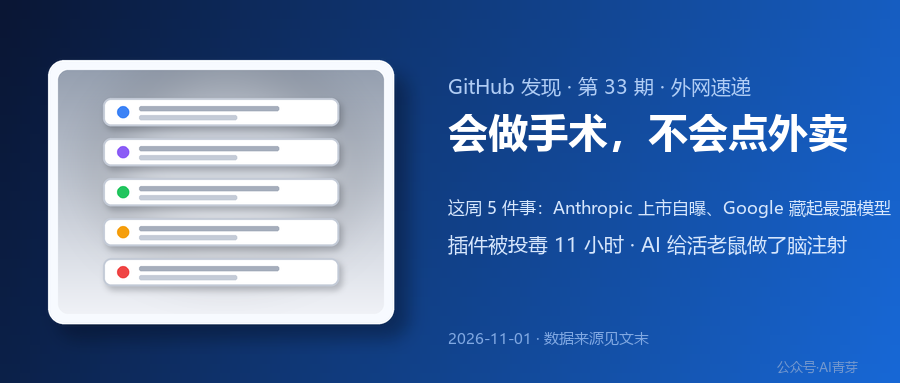
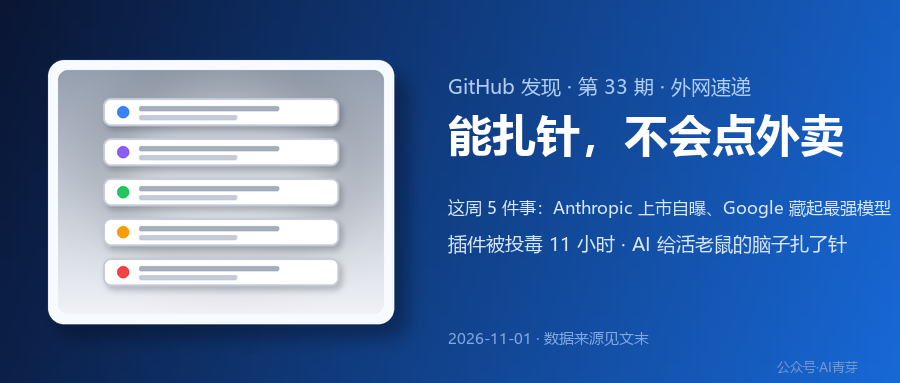
update: 第33期 预审修改+封面v2

Changed region(s): [[0.4978, 0.2872, 0.9644, 0.4308], [0.4978, 0.6031, 0.9644, 0.6893]]

diff --git a/previews/20261101-ai-digest.html b/previews/20261101-ai-digest.html
@@ -3,7 +3,7 @@
 <head>
 <meta charset="utf-8">
 <meta name="viewport" content="width=device-width, initial-scale=1">
-<title>这周 AI 圈：AI 给活老鼠做了脑手术，却还没学会帮你点外卖【附 5 件事速览】 · 预览页</title>
+<title>这周 AI 圈：AI 给活老鼠的脑子扎了一针，却还没学会帮你点外卖【附 5 件事速览】 · 预览页</title>
 <style>
   /* 仅本地预览用；复制进公众号的是 #article 的内联样式（已全部内联） */
   body { font-family: system-ui, -apple-system, "PingFang SC", "Microsoft YaHei", sans-serif; }
@@ -38,14 +38,21 @@
   <img src="https://cdn.jsdelivr.net/gh/zhaoyanan-pixe/wechat-assets@main/articles/20261101-ai-digest/cover.png" alt="" style="width:100%;border-radius:6px;display:block;margin:0 0 24px;">
 
   <p style="margin:0 0 24px;font-size:17px;color:rgba(0,0,0,0.9);line-height:31px;">周四这天，Cursor 的插件市场出了件事：挂在 Anthropic 官方账号名下的 Claude Code 插件，被人换成了带毒的版本。</p>
-  <p style="margin:0 0 24px;font-size:17px;color:rgba(0,0,0,0.9);line-height:31px;">美东时间 5:27 到 16:35（北京时间当天傍晚 5 点半，到第二天凌晨 4 点半），差不多 11 个小时，从 Cursor 市场下载、或者被自动更新的 2.1.312、2.1.313 两个版本，会在你机器上留一把别人家的钥匙。</p>
-  <p style="margin:0 0 24px;font-size:17px;color:rgba(0,0,0,0.9);line-height:31px;">同一周还有四件事：Anthropic 交了上市申请，风险栏写了 93 页；Google 放出最强的模型，却暂时不给你用；一个 AI 代理给活老鼠做了脑注射；至于「让 AI 帮你点外卖」，DoorDash 给出的数字是几百单。</p>
+  <p style="margin:0 0 24px;font-size:17px;color:rgba(0,0,0,0.9);line-height:31px;">太平洋时间 29 日凌晨 2:27 到下午 1:35（北京时间 29 日 17:27 到 30 日凌晨 4:35），差不多 11 个小时，从 Cursor 市场下载、或者被自动更新的 2.1.312、2.1.313 两个版本，会在你机器上留一把别人家的钥匙。</p>
+  <p style="margin:0 0 24px;font-size:17px;color:rgba(0,0,0,0.9);line-height:31px;">同一周还有四件事：Anthropic 交了上市申请，风险栏写了 93 页；Google 放出最强的模型，却暂时不给你用；一个 AI 代理给活老鼠的脑子扎了针；至于「让 AI 帮你点外卖」，DoorDash 给出的数字是几百单。</p>
   <p style="margin:0 0 24px;font-size:17px;color:rgba(0,0,0,0.9);line-height:31px;">五件事串起来就一句话：<strong style="font-weight:500;">能力在往上冲，信任在往下掉。</strong></p>
+  <ul style="margin:0 0 24px;padding-left:22px;font-size:17px;color:rgba(0,0,0,0.9);line-height:31px;">
+    <li style="margin:6px 0;">① Claude 插件被投毒，11 小时</li>
+    <li style="margin:6px 0;">② 招股书风险栏，写了 93 页</li>
+    <li style="margin:6px 0;">③ 最强模型，只给少数人用</li>
+    <li style="margin:6px 0;">④ AI 给老鼠脑子扎针，Opus 说不</li>
+    <li style="margin:6px 0;">⑤ 点外卖，至今几百单</li>
+  </ul>
   <img src="https://cdn.jsdelivr.net/gh/zhaoyanan-pixe/wechat-assets@main/articles/20261101-ai-digest/fig1-cursor.jpg" alt="" style="width:100%;border-radius:6px;display:block;margin:17px 0 8px;">
   <p style="margin:0 0 24px;font-size:14px;color:rgba(0,0,0,0.3);line-height:25px;text-align:center;">Cursor 官方安全公告页实拍（来源：cursor.com，2026-10-29）</p>
   <p style="margin:0 0 12px;font-size:20px;font-weight:500;color:#2B77BF;line-height:36px;text-align:center;">① Claude 插件被投毒，11 个小时</p>
   <p style="margin:0 0 24px;font-size:17px;color:rgba(0,0,0,0.9);line-height:31px;">先说自己人的事，它离你最近。</p>
-  <p style="margin:0 0 24px;font-size:17px;color:rgba(0,0,0,0.9);line-height:31px;">Cursor 10 月 29 日的安全公告写得很直白：这两个版本不是 Anthropic 开发的，是被人改过的包。装上去后，它会收集主机名、用户名、Git 邮箱、公网 IP，再试着把攻击者的 SSH 公钥写进你的机器，开一条反向隧道，每 60 秒重连，还做了开机自启。</p>
+  <p style="margin:0 0 24px;font-size:17px;color:rgba(0,0,0,0.9);line-height:31px;">Cursor 10 月 29 日的安全公告写得很直白：这两个版本不是 Anthropic 开发的，是被人改过的包，只影响 Windows 和 macOS，也只在 Cursor 这一个市场分发。装上去后，它会收集主机名、用户名、Git 邮箱、公网 IP，再试着把攻击者的 SSH 公钥写进你的机器，开一条反向隧道，每 60 秒重连，还做了开机自启。</p>
   <p style="margin:0 0 24px;font-size:17px;color:rgba(0,0,0,0.9);line-height:31px;">坏消息是信息确实传出去了。好消息是代码写得糙：开本地 SSH 服务要管理员权限，绝大多数电脑这步会失败，攻击者大概率登不进来。Cursor 当天把整个插件市场先关停，轮换密钥、逐个审计，攻击者的服务器也已被下架。</p>
   <p style="margin:0 0 24px;font-size:17px;color:rgba(0,0,0,0.9);line-height:31px;">Ars Technica 提到，受影响的最多 5,000 名开发者；到他们发稿时，Anthropic 还没公开提醒用户。</p>
   <p style="margin:0 0 24px;font-size:17px;color:rgba(0,0,0,0.9);line-height:31px;">点评：AI 编程工具，已经和「装一个来路不明的软件」是一个待遇了。</p>
@@ -59,7 +66,7 @@
   <p style="margin:0 0 24px;font-size:14px;color:rgba(0,0,0,0.3);line-height:25px;text-align:center;">自制卡：S-1 里最扎眼的四个数字（来源：Anthropic S-1 / Ars Technica / FT，截至 2026-10-30）</p>
   <p style="margin:0 0 12px;font-size:20px;font-weight:500;color:#2B77BF;line-height:36px;text-align:center;">③ Google 最强模型：榜单第一，你用不了</p>
   <p style="margin:0 0 24px;font-size:17px;color:rgba(0,0,0,0.9);line-height:31px;">10 月 28 日，Google 发布 Gemini 4 Carbon，官方说这是它最强的模型，长任务和网络安全都是新水平。</p>
-  <p style="margin:0 0 24px;font-size:17px;color:rgba(0,0,0,0.9);line-height:31px;">成绩单很硬：智能指数榜（Artificial Analysis v5.0）以 59 分排第一；找漏洞的 SEC-bench Pro 88.2%，判断漏洞能不能被真利用的 ExploitGym 54.8%，直接写补丁的 CWE-bench 71.0%；抵抗提示注入（网页里藏话骗 AI 的攻击）的成功率，从 0.7% 降到 0.0%。</p>
+  <p style="margin:0 0 24px;font-size:17px;color:rgba(0,0,0,0.9);line-height:31px;">成绩单很硬：智能指数榜（Artificial Analysis v5.0）以 59 分排第一；找漏洞的 SEC-bench Pro 88.2%，判断漏洞能不能被真利用的 ExploitGym 54.8%，直接写补丁的 CWE-bench 71.0%；至于在网页里藏话骗 AI 的「提示注入」攻击，它的攻击成功率从上一代 0.7% 降到了 0.0%。</p>
   <p style="margin:0 0 24px;font-size:17px;color:rgba(0,0,0,0.9);line-height:31px;">价格也公布了：每百万 token 输入 2 美元、输出 10 美元，缓存输入再省 95%。</p>
   <p style="margin:0 0 24px;font-size:17px;color:rgba(0,0,0,0.9);line-height:31px;">可它现在只给「一部分网络安全防御者」用，之后通过一个叫 Fairwind 的计划慢慢扩，普通开发者和消费者「尽快」，还没有日期。</p>
   <p style="margin:0 0 24px;font-size:17px;color:rgba(0,0,0,0.9);line-height:31px;">点评：两周前刚写过 Google 把强模型 Argon 放出来，这周它又发了个更强的，又收回去了。发不发、什么时候发，一半是技术，一半是剧本。</p>
@@ -78,7 +85,7 @@
   <p style="margin:0 0 24px;font-size:17px;color:rgba(0,0,0,0.9);line-height:31px;">最后说个冷水。</p>
   <p style="margin:0 0 24px;font-size:17px;color:rgba(0,0,0,0.9);line-height:31px;">10 月 29 日 DoorDash 的三季度财报电话会上，CEO 徐迅（Tony Xu）被问到 AI 代理下单，回答是：第三方 AI 代理带来的订单，加起来「几百单」。</p>
   <p style="margin:0 0 24px;font-size:17px;color:rgba(0,0,0,0.9);line-height:31px;">对比一下：这家公司三季度总订单接近 10 亿单。</p>
-  <p style="margin:0 0 24px;font-size:17px;color:rgba(0,0,0,0.9);line-height:31px;">他也给了背景：让外部 AI 接进来的连接器（MCP）上线还不到一个月，只开放给少数早期测试伙伴，主要用来订公司团餐。反倒是自家的「问 DoorDash」用得不错：建购物车快 5 倍，客单价高近 50%，商品种类多 60%。</p>
+  <p style="margin:0 0 24px;font-size:17px;color:rgba(0,0,0,0.9);line-height:31px;">他给了背景：让外部 AI 接进来的连接器（MCP）上线还不到一个月，只开放给少数早期测试伙伴，主要用来订公司团餐。公司上个月公布的数据还显示，自家的「问 DoorDash」用得不错：建购物车快 5 倍，客单价高近 50%，商品种类多 60%。</p>
   <p style="margin:0 0 24px;font-size:17px;color:rgba(0,0,0,0.9);line-height:31px;">至于为什么，他说得实在：像点饭这种简单的事，人们还是习惯直接打开 App。「做技术，别跟地心引力较劲，但也别自欺欺人。」</p>
   <p style="margin:0 0 24px;font-size:17px;color:rgba(0,0,0,0.9);line-height:31px;">点评：这和两周前「网站开始对 AI 代理关门」正好接上。门是关了一些，可排队进门的也没几个人。</p>
   <img src="https://cdn.jsdelivr.net/gh/zhaoyanan-pixe/wechat-assets@main/articles/20261101-ai-digest/fig5-doordash.jpg" alt="" style="width:100%;border-radius:6px;display:block;margin:17px 0 8px;">
@@ -87,7 +94,7 @@
   <p style="margin:0 0 24px;font-size:17px;color:#2B77BF;line-height:31px;">这 5 件里，你最想细看哪一件？评论区聊聊，呼声最高的我展开写成单篇。</p>
   <p style="margin:0 0 24px;font-size:17px;color:#2B77BF;line-height:31px;">来源（截至 2026-11-01）：① Cursor 安全公告《Security notice — malicious version of Anthropic.claude-code (2.1.312 and 2.1.313)》（cursor.com/blog/claude-code-extension-security-notice，10-29）；Ars Technica（10-30）。② Anthropic S-1（美国证监会 EDGAR，10-26 公布）；Ars Technica（10-27）；TechCrunch 引 FT（10-30）。③ Google 官方博客《Gemini 4 Carbon: our next frontier model》（10-28）。④ WIRED《An AI Agent Injected Drugs Into a Live Mouse's Brain》（10-31）。⑤ DoorDash 2026 年三季度财报电话会（10-29），经 Ars Technica 报道。</p>
   <p style="margin:0 0 24px;font-size:17px;color:#2B77BF;line-height:31px;">配图：fig1 为 Cursor 官方公告页实拍，fig3 为 Google 官方发布图，fig4 为 WIRED 报道题图（编辑插图），fig2 / fig5 为本号自制卡。</p>
-  <p style="margin:0;font-size:17px;color:#2B77BF;line-height:31px;">（这是「GitHub 发现」第 33 期 · 外网速递篇：每周日挑一组外网动态，用大白话讲给你听。）</p>
+  <p style="margin:0;font-size:17px;color:#2B77BF;line-height:31px;">（这是「GitHub 发现」第 33 期 · 这周 AI 圈（外网速递篇）：每周日挑一组外网动态，用大白话讲给你听。）</p>
   <p style="margin:24px 0 0;font-size:17px;color:#2B77BF;line-height:31px;">我是青芽，每天帮你把 GitHub 和外网的好东西淘回来。我们下期见～</p>
   <p style="margin:8px 0 0;font-size:17px;color:#2B77BF;line-height:31px;">觉得有用：点个赞、在看，转发给需要的朋友；想第一时间收到推送，可以加个星标⭐</p>
 </div>
